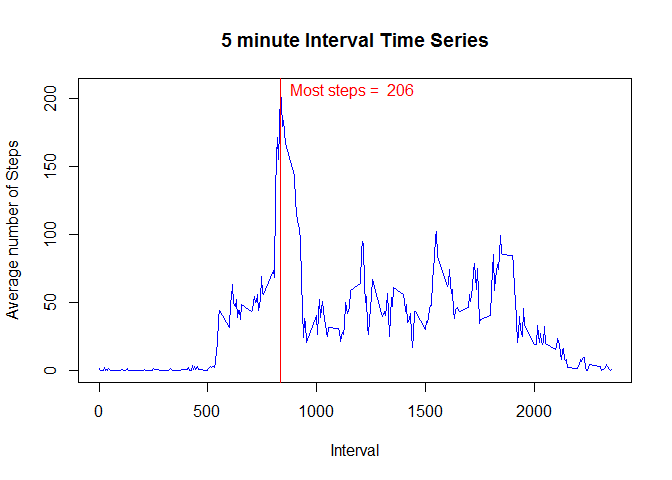
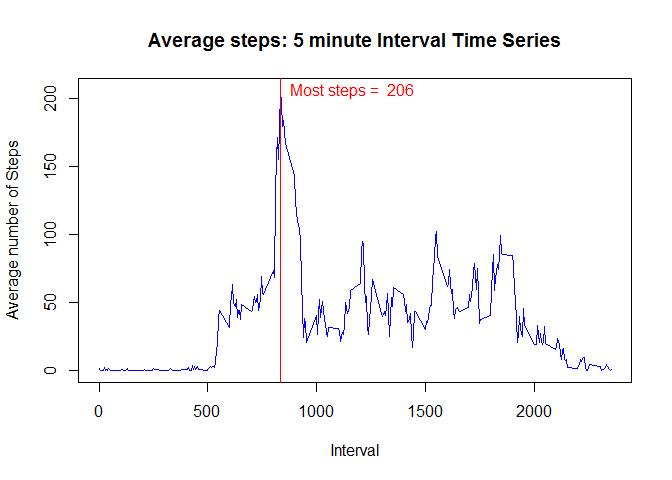
update of PA1_template.Rmd

Changed region(s): [[0.2188, 0.0625, 0.8438, 0.125]]

diff --git a/PA1_template.html b/PA1_template.html
@@ -85,26 +85,44 @@ hist(totalsteps$V1, breaks = 6,
 </div>
 <div id="what-is-mean-total-number-of-steps-taken-per-day" class="section level2">
 <h2>What is mean total number of steps taken per day?</h2>
-<pre class="r"><code>print(paste(&quot;The mean is = &quot;, mean(totalsteps$V1, na.rm = TRUE)))</code></pre>
+<pre class="r"><code>## calculate both the mean and the median total steps per day.        
+print(paste(&quot;The mean is = &quot;, mean(totalsteps$V1, na.rm = TRUE)))</code></pre>
 <pre><code>## [1] &quot;The mean is =  10766.1886792453&quot;</code></pre>
+<pre class="r"><code>print(paste(&quot;The median is = &quot;, median(totalsteps$V1, na.rm = TRUE)))</code></pre>
+<pre><code>## [1] &quot;The median is =  10765&quot;</code></pre>
 </div>
 <div id="what-is-the-average-daily-activity-pattern" class="section level2">
 <h2>What is the average daily activity pattern?</h2>
+<p>*Average number of steps over 5 minute intervals.</p>
 <pre class="r"><code>avgStepsInt &lt;- aggregate(steps ~ interval, data = activity, mean, na.rm = TRUE)  
 plot(avgStepsInt, type=&quot;l&quot;,  
-        main=&quot;5 minute Interval Time Series&quot;, 
+        main=&quot;Average steps: 5 minute Interval Time Series&quot;, 
         ylab=&quot;Average number of Steps&quot;, 
         xlab=&quot;Interval&quot;, col=&quot;blue&quot;) 
 abline(v=avgStepsInt$interval[avgStepsInt$steps &gt;= max(avgStepsInt$steps)], lty = 1, col = &quot;red&quot;)
         text(x = avgStepsInt$interval[avgStepsInt$steps &gt;= max(avgStepsInt$steps)],y = round(max(avgStepsInt$steps)),   
         labels=paste(&quot;Most steps = &quot;,(round(max(avgStepsInt$steps)))), 
           pos = 4, col = &quot;red&quot;)</code></pre>
[2 lines of base64/hex data omitted]
+<p>*Maximum number of steps over 5 minute intervals.</p>
+<pre class="r"><code>totStepsInt &lt;- aggregate(steps ~ interval, data = activity, max, na.rm = TRUE)  
+plot(totStepsInt, type=&quot;l&quot;,  
+     main=&quot;Maximum steps: 5 minute Interval Time Series&quot;, 
+     ylab=&quot;Maximum number of Steps&quot;, 
+     xlab=&quot;Interval&quot;, col=&quot;blue&quot;) 
+abline(v=totStepsInt$interval[totStepsInt$steps &gt;= max(totStepsInt$steps)], lty = 1, col = &quot;red&quot;)
+text(x = avgStepsInt$interval[totStepsInt$steps &gt;= max(totStepsInt$steps)],y = round(max(totStepsInt$steps)),   
+     labels=paste(&quot;Max steps = &quot;,(round(max(totStepsInt$steps)))), 
+     pos = 4, col = &quot;red&quot;)</code></pre>
[1 lines of base64/hex data omitted]
 </div>
-<div id="inputing-missing-values" class="section level2">
-<h2>Inputing missing values</h2>
+<div id="imputing-missing-values" class="section level2">
+<h2>Imputing missing values</h2>
 <pre class="r"><code>print(paste(&quot;Count of enties with missing values is&quot;,length(activity$steps[is.na(activity$steps)])))</code></pre>
 <pre><code>## [1] &quot;Count of enties with missing values is 2304&quot;</code></pre>
+<ul>
+<li>Strategy for imputing NA values - Use the mean for that 5 minute period.</li>
+</ul>
 <pre class="r"><code>fillNAsteps &lt;- function(interval) {
         avgStepsInt[avgStepsInt$interval == interval, ]$steps
 }
@@ -158,6 +176,7 @@ xyplot(steps ~ interval | factor(day), data = totalsteps3, aspect = 1/2, type = 
 <pre><code>##   Group.1        x
 ## 1 weekday 35.61058
 ## 2 weekend 42.36640</code></pre>
+<p>The average number of steps over the 5 minute intervals are higher on the weekend than the weekdays.</p>
 </div>
 </div>
 

diff --git a/PA1_template.md b/PA1_template.md
@@ -27,6 +27,7 @@ hist(totalsteps$V1, breaks = 6,
 ## What is mean total number of steps taken per day?
 
 ```r
+## calculate both the mean and the median total steps per day.        
 print(paste("The mean is = ", mean(totalsteps$V1, na.rm = TRUE)))
 ```
 
@@ -34,13 +35,22 @@ print(paste("The mean is = ", mean(totalsteps$V1, na.rm = TRUE)))
 ## [1] "The mean is =  10766.1886792453"
 ```
 
+```r
+print(paste("The median is = ", median(totalsteps$V1, na.rm = TRUE)))
+```
+
+```
+## [1] "The median is =  10765"
+```
+
 ## What is the average daily activity pattern?
+*Average number of steps over 5 minute intervals.
 
 
 ```r
 avgStepsInt <- aggregate(steps ~ interval, data = activity, mean, na.rm = TRUE)  
 plot(avgStepsInt, type="l",  
-        main="5 minute Interval Time Series", 
+        main="Average steps: 5 minute Interval Time Series", 
         ylab="Average number of Steps", 
         xlab="Interval", col="blue") 
 abline(v=avgStepsInt$interval[avgStepsInt$steps >= max(avgStepsInt$steps)], lty = 1, col = "red")
@@ -51,7 +61,26 @@ abline(v=avgStepsInt$interval[avgStepsInt$steps >= max(avgStepsInt$steps)], lty 
 
 ![](PA1_template_files/figure-html/unnamed-chunk-3-1.png) 
 
-## Inputing missing values
+*Maximum number of steps over 5 minute intervals.
+
+
+```r
+totStepsInt <- aggregate(steps ~ interval, data = activity, max, na.rm = TRUE)  
+plot(totStepsInt, type="l",  
+     main="Maximum steps: 5 minute Interval Time Series", 
+     ylab="Maximum number of Steps", 
+     xlab="Interval", col="blue") 
+abline(v=totStepsInt$interval[totStepsInt$steps >= max(totStepsInt$steps)], lty = 1, col = "red")
+text(x = avgStepsInt$interval[totStepsInt$steps >= max(totStepsInt$steps)],y = round(max(totStepsInt$steps)),   
+     labels=paste("Max steps = ",(round(max(totStepsInt$steps)))), 
+     pos = 4, col = "red")
+```
+
+![](PA1_template_files/figure-html/unnamed-chunk-4-1.png) 
+ 
+     
+
+## Imputing missing values
 
 
 ```r
@@ -61,6 +90,8 @@ print(paste("Count of enties with missing values is",length(activity$steps[is.na
 ```
 ## [1] "Count of enties with missing values is 2304"
 ```
+
+* Strategy for imputing NA values - Use the mean for that 5 minute period.
 
 
 ```r
@@ -95,7 +126,7 @@ text(mean(totalsteps2$V1),5,labels="mean", pos=4, col="green")
 text(median(totalsteps2$V1),3,labels="median", pos=4, col="red")
 ```
 
-![](PA1_template_files/figure-html/unnamed-chunk-5-1.png) 
+![](PA1_template_files/figure-html/unnamed-chunk-6-1.png) 
 
 # The mean total number of steps taken per day
 
@@ -128,7 +159,7 @@ library(lattice)
 xyplot(steps ~ interval | factor(day), data = totalsteps3, aspect = 1/2, type = "l")
 ```
 
-![](PA1_template_files/figure-html/unnamed-chunk-7-1.png) 
+![](PA1_template_files/figure-html/unnamed-chunk-8-1.png) 
 
 ## The mean number of steps for weekdays and weekend:
 
@@ -142,3 +173,4 @@ aggregate(totalsteps3$steps, list(totalsteps3$day), mean)
 ## 1 weekday 35.61058
 ## 2 weekend 42.36640
 ```
+The average number of steps over the 5 minute intervals are higher on the weekend than the weekdays.
